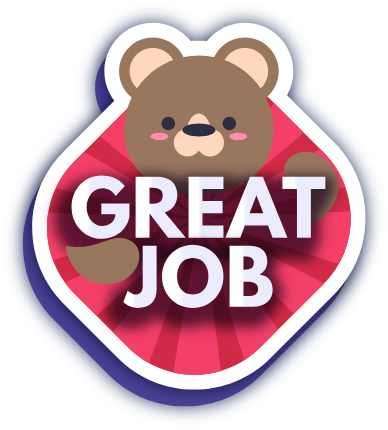
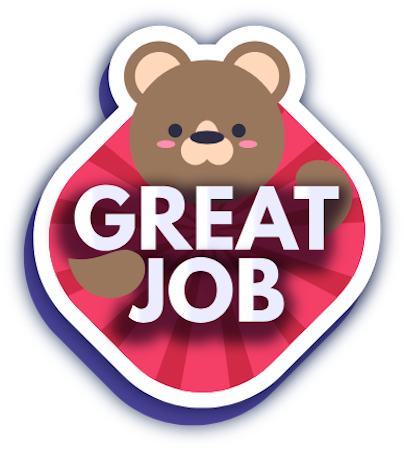
reward system part 2

diff --git a/app/(screens)/child-screen.tsx b/app/(screens)/child-screen.tsx
@@ -1,5 +1,5 @@
 import { Platform, SafeAreaView, StyleSheet, View } from 'react-native';
-import React, { useEffect, useState } from 'react';
+import React, { useEffect, useRef, useState } from 'react';
 import { useUserContext } from '@/contexts/UserContext';
 import { Text } from '@ui-kitten/components';
 import { Calendar } from 'react-native-calendars';
@@ -7,14 +7,14 @@ import { DateData, MarkedDates } from 'react-native-calendars/src/types';
 import { useTaskContext } from '@/contexts/TaskContext';
 import { Task } from '@/types/Entity';
 import TaskView from '../components/TaskView';
+import LottieView from 'lottie-react-native';
 
 import * as Device from 'expo-device';
 import * as Notifications from 'expo-notifications';
 import Constants from 'expo-constants';
 import { doc, getDoc, updateDoc } from 'firebase/firestore';
 import db from '@/firebase/firebase-config';
-
-
+import RewardSlidingImage from '../components/RewardSlidingImage';
 
 interface TaskItem {
   description: string;
@@ -35,6 +35,9 @@ const ChildScreen = () => {
   const [taskDoneCounter, settaskDoneCounter] = useState(0);
   const [daysCompletedCount, setDaysCompletedCount] = useState(0);
   const [expoPushToken, setExpoPushToken] = useState('');
+
+  const [showReward, setShowReward] = useState(false)
+  const rewardLottieRef = useRef<LottieView>(null)
 
   async function sendPushNotification(expoPushToken: string) {
     const pt = user?.members?.find(u => u.name === user.name);
@@ -116,7 +119,26 @@ const ChildScreen = () => {
     if (user?.id && user?.name) {
       registerPushToken();
     }
+
+    // Notification received listener
+    const subscription = Notifications.addNotificationReceivedListener(notification => {
+      const title = notification.request.content.title;
+      const body = notification.request.content.body;
+      // alert(`${title}: ${body}`);
+      setShowReward(true)
+    });
+
+    // Cleanup the listener when the component unmounts
+    return () => subscription.remove();
   }, [user?.id, user?.name]);
+
+
+  useEffect(() => {
+    if(showReward && rewardLottieRef.current) {
+      rewardLottieRef.current.play(0)
+    }
+  }, [showReward])
+  
 
   const registerForPushNotificationsAsync = async () => {
     if (Platform.OS === 'android') {
@@ -150,6 +172,7 @@ const ChildScreen = () => {
             projectId,
           })
         ).data;
+        
         return pushTokenString;
       } catch (e: unknown) {
         alert(`${e}`);
@@ -231,6 +254,12 @@ const ChildScreen = () => {
 
   return (
     <SafeAreaView style={styles.container}>
+      {showReward && <RewardSlidingImage />}
+      {showReward && <LottieView ref={rewardLottieRef}
+        source={require('../../assets/animations/lottie-reward.json')} // Path to your confetti animation JSON
+        loop={false}
+        style={{position:"absolute", left: 0, top: 0, right: 0, bottom:0, zIndex: 3000, pointerEvents:"none"}}
+      />}
       <Text>Your Expo push token: {expoPushToken}</Text>
       <View style={styles.header}>
         <View style={{ flexDirection: "row", alignItems: "center" }}>
@@ -259,6 +288,7 @@ const ChildScreen = () => {
         />
       </View>
 
+      
       <TaskView
         dismiss={() => setShowTask(false)}
         tasksCurrentdDay={tasksForSelectedDay}

diff --git a/app/components/RewardSlidingImage.tsx b/app/components/RewardSlidingImage.tsx
@@ -1,0 +1,79 @@
+import React, { useEffect, useState } from 'react';
+import { View, StyleSheet, Image, Animated, Easing, Dimensions } from 'react-native';
+
+const images = [
+  require("../../assets/notifications/good-job.png"),
+  require("../../assets/notifications/great-job.png"),
+  require("../../assets/notifications/nice-job.png"),
+  require("../../assets/notifications/well-done.png")
+];
+
+const RewardSlidingImage = () => {
+    const {width, height} = Dimensions.get('screen')
+  const [position] = useState(new Animated.Value(-404)); // Initial position off the screen (top)
+  const [imageIndex, setImageIndex] = useState(Math.floor(Math.random() * images.length)); // Random image index
+
+
+
+  useEffect(() => {
+    // Slide image down
+    Animated.timing(position, {
+      toValue: -10, // Center of the screen
+      duration: 1000, // Slide duration
+      easing: Easing.bounce, // Easing effect for a nice bounce
+      useNativeDriver: true,
+    }).start(() => {
+      // After 3 seconds, slide the image up again
+      const timeout = setTimeout(() => {
+        Animated.timing(position, {
+          toValue: -404, // Slide image back up
+          duration: 1000, // Slide back duration
+          easing: Easing.ease,
+          useNativeDriver: true,
+        }).start();
+      }, 3000); // Wait for 5 seconds before sliding up
+
+      // Cleanup timeout on unmount
+      return () => clearTimeout(timeout);
+    });
+  }, [position]);
+
+  useEffect(() => {
+    // Pick a random image when the component mounts
+    setImageIndex(Math.floor(Math.random() * images.length));
+  }, []); // Only run on mount
+
+  return (
+      <Animated.View
+        style={[styles.imageContainer, { transform: [{ translateX: position }], top: 0 }]}>
+        <Image source={images[imageIndex]} style={styles.image} />
+      </Animated.View>
+  );
+};
+
+const styles = StyleSheet.create({
+  container: {
+    flex: 1,
+    justifyContent: 'center',
+    alignItems: 'center',
+    position: 'relative',
+    width: '100%',
+    height: '100%',
+    overflow: 'hidden',
+    
+  },
+  imageContainer: {
+    position: 'absolute',
+    left: 0,
+    zIndex: 1000,
+    width:404,
+    height:452,
+  },
+  image: {
+    width: 404,
+    height: 452,
+    resizeMode:"center"
+  },
+});
+
+export default RewardSlidingImage;

diff --git a/app/components/CalendarTab.tsx b/app/components/CalendarTab.tsx
@@ -149,7 +149,7 @@ const CalendarTab: React.FC<CalendarTabProps> = ({showLikeBtn, notificationSende
       to: expoPushToken,
       sound: 'default',
       title: 'Great job!',
-      body: `${pt?.name} You completed all tasks of the week.`,
+      body: `${selectedFamilyMember} You completed all tasks of the week.`,
       data: { ...pt },
     };
   
@@ -164,7 +164,7 @@ const CalendarTab: React.FC<CalendarTabProps> = ({showLikeBtn, notificationSende
   }
 
   const congratNotificationSender = () => {
-    const pt = user?.members?.find(m => m.name === notificationSender);
+    const pt = user?.members?.find(m => m.name === selectedFamilyMember);
     
     if(pt) {
       sendPushNotification(pt!.memberPushToken as unknown as string)
